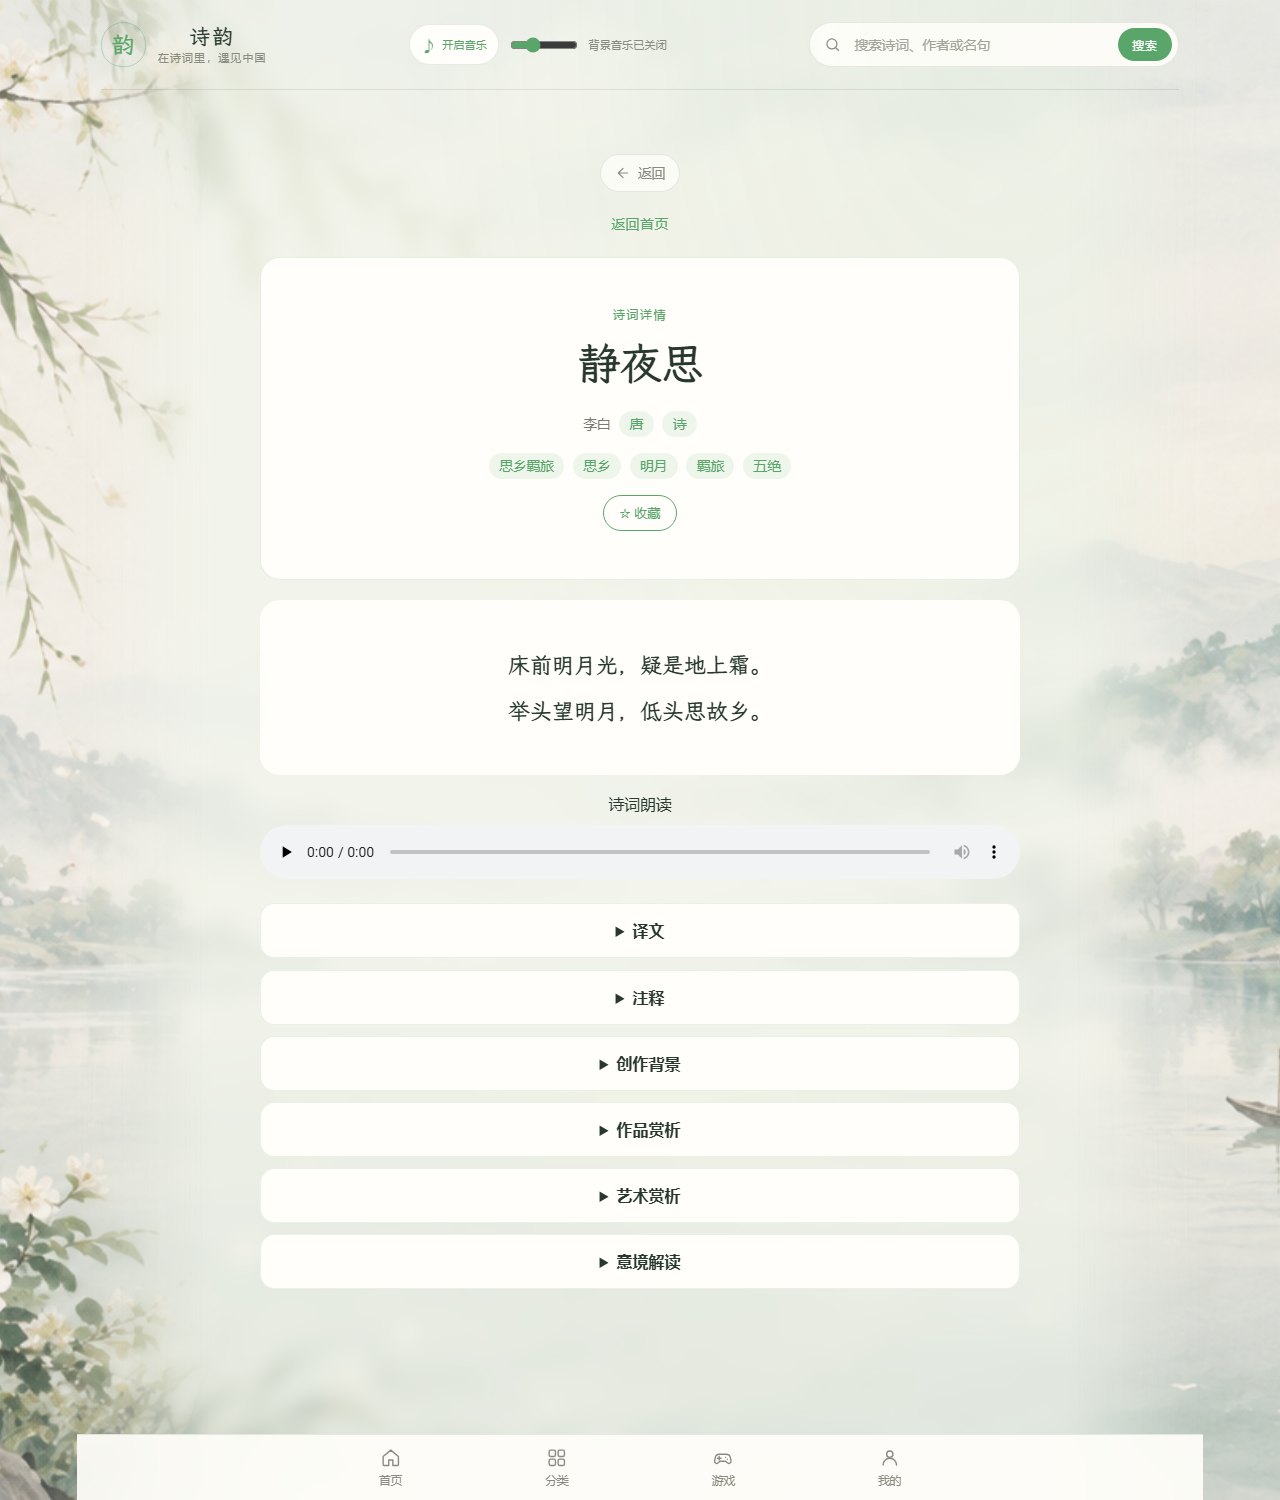
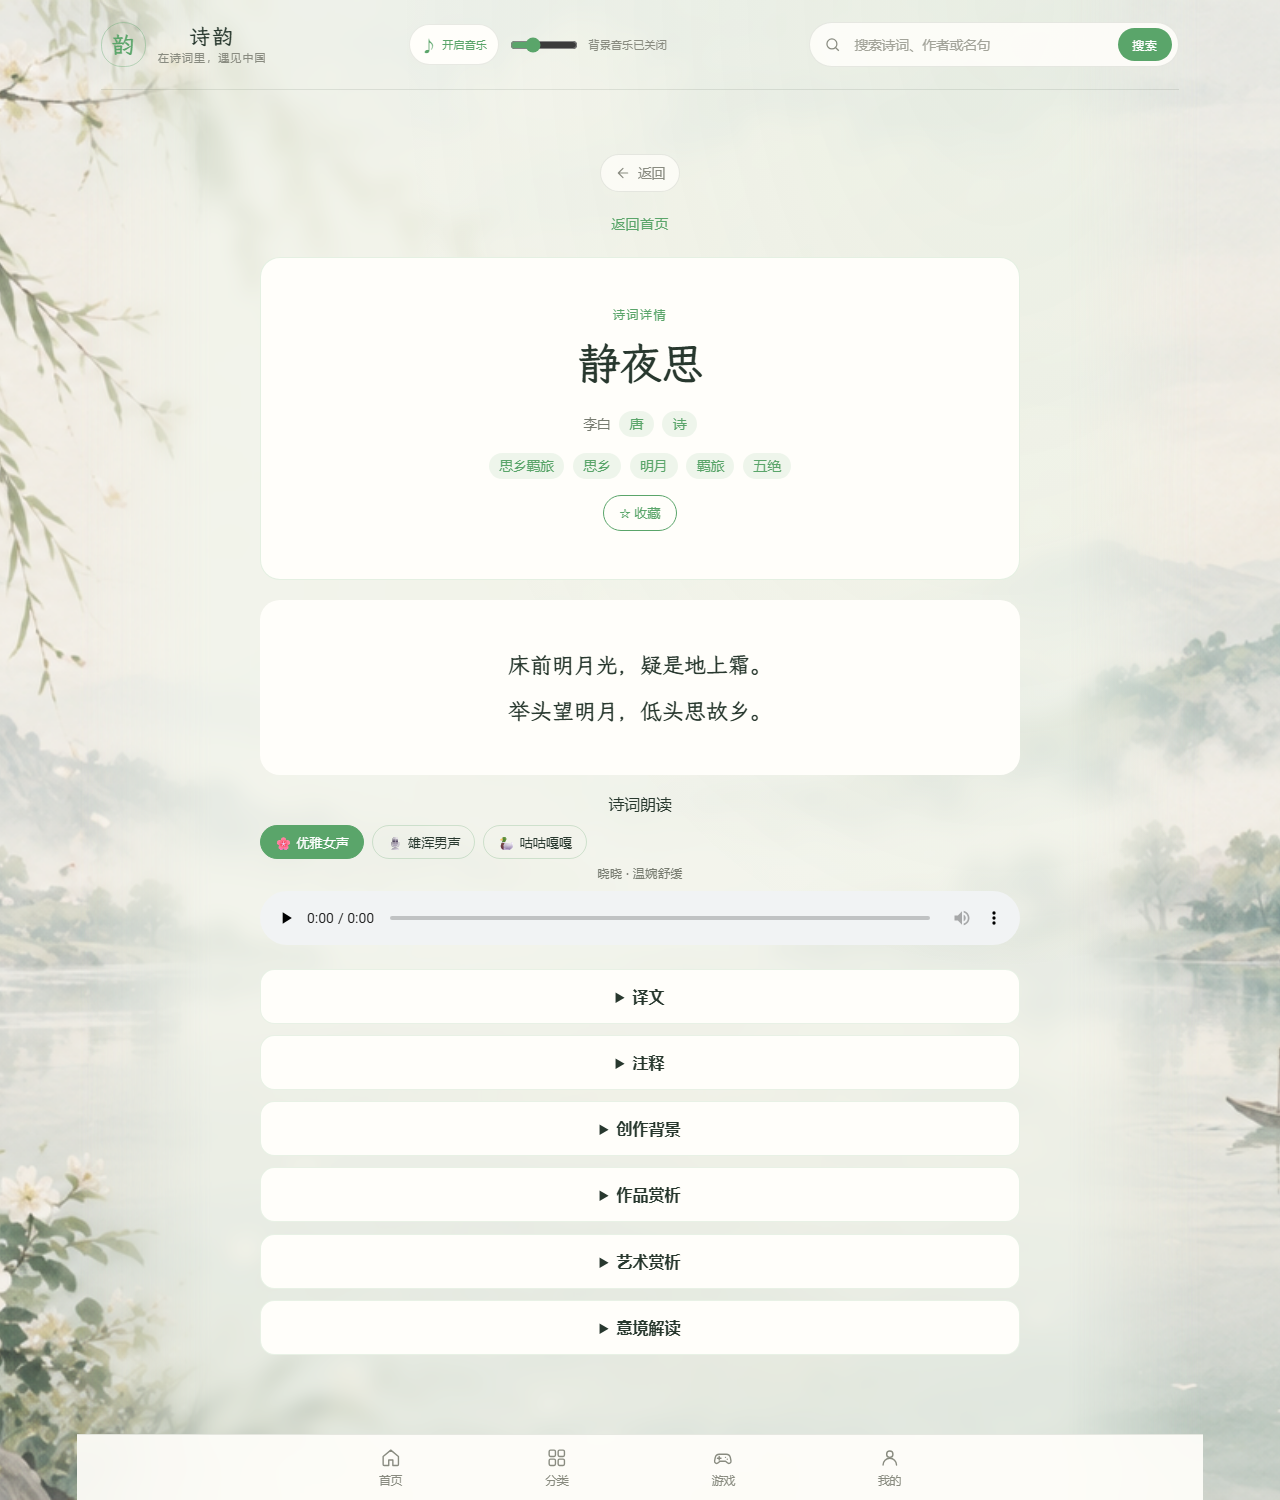
docs: README 同步三音色朗读与 2007 个音频统计，更新详情页截图

diff --git a/README.md b/README.md
@@ -8,7 +8,7 @@
   <img alt="Pinia" src="https://img.shields.io/badge/Pinia-4.x-ffd859">
   <img alt="Router" src="https://img.shields.io/badge/Vue%20Router-4.x-42b883">
   <img alt="Poems" src="https://img.shields.io/badge/诗词-500%20首-5aa56a">
-  <img alt="Audio" src="https://img.shields.io/badge/朗读音频-500%20条-6a9c78">
+  <img alt="Audio" src="https://img.shields.io/badge/朗读音频-1500%20条-6a9c78">
 </p>
 
 ![诗韵 · 首页](docs/screenshots/home.png)
@@ -22,7 +22,7 @@
 | 🧭 认识项目 | ✨ 功能与界面 | 🛠 技术实现 | 👥 一起参与 |
 | :--- | :--- | :--- | :--- |
 | [项目简介](#项目简介)<br><sub>它是什么、想解决什么</sub> | [功能全景](#功能全景)<br><sub>四类能力逐项拆解</sub> | [技术亮点](#技术亮点)<br><sub>7 个实现细节</sub> | [快速开始](#快速开始)<br><sub>两条命令跑起来</sub> |
-| [项目数据](#项目数据)<br><sub>500 首 · 507 音频 · 统计</sub> | [界面预览](#界面预览)<br><sub>13 张真实截图</sub> | [技术栈](#技术栈)<br><sub>框架与选型</sub> | [团队分工](#团队分工)<br><sub>5 人 + GitHub</sub> |
+| [项目数据](#项目数据)<br><sub>500 首 · 1500 音频 · 统计</sub> | [界面预览](#界面预览)<br><sub>13 张真实截图</sub> | [技术栈](#技术栈)<br><sub>框架与选型</sub> | [团队分工](#团队分工)<br><sub>5 人 + GitHub</sub> |
 |  |  | [目录结构](#目录结构)<br><sub>一图看懂工程</sub> | [协作规范](#迭代与协作规范)<br><sub>分支 · 提交 · 发版</sub> |
 |  |  |  | [文档索引](#文档索引)<br><sub>字段规范与脚本</sub> |
 
@@ -32,7 +32,7 @@
 
 **诗韵 · 古诗库** 是一个面向古诗词爱好者的单页 Web 应用（Vue 3 课程项目，南开大学软件学院）。
 
-它不只做「把诗摆出来」这件事：项目把 **500 首诗词、500 条整篇朗读音频、5 种互动玩法、一套学习闭环和四季视觉主题** 装进了一个手机优先的界面里，让「读诗」变成可以听、可以玩、可以复习、可以留下痕迹的日常动作。
+它不只做「把诗摆出来」这件事：项目把 **500 首诗词、1500 条三音色整篇朗读、5 种互动玩法、一套学习闭环和四季视觉主题** 装进了一个手机优先的界面里，让「读诗」变成可以听、可以玩、可以复习、可以留下痕迹的日常动作。
 
 - **数据规模**：500 首诗词，覆盖先秦至清 **14 个朝代 / 时期**，每首含译文、注释、创作背景、作品赏析、艺术赏析、意境解读
 - **内容形态**：原文 + 朗读音频 + 标签 + 地理点位（部分作品），从「看」延伸到「听」和「去」
@@ -51,7 +51,7 @@
 | **分类** | 朝代 / 体裁 / 主题三维组合筛选，实时显示命中数量（如「唐 · 130 首」），并按朝代分组浏览 |
 | **搜索** | 标题、作者、名句全文检索，边输边筛 |
 | **诗词详情** | 原文正字 + 作者朝代标签 + 收藏；折叠面板承载 **译文 / 注释 / 创作背景 / 作品赏析 / 艺术赏析 / 意境解读**（空字段不渲染） |
-| **朗读** | 每首诗配一条整篇朗读音频，内置播放器支持暂停、进度拖动、音量 |
+| **朗读** | 每首诗配 **3 条整篇朗读**：🌸优雅女声（晓晓）、🎙雄浑男声（云健）、🦆咕咕嘎嘎（卡通萌音）。页面内一键切换、记住上次选择，内置播放器支持暂停/进度/音量 |
 | **百科卡片** | 详情页可展开作者/词条百科卡片，补充背景知识 |
 | **我的足迹** | 进入详情页即自动记录，按时间倒序回看读过哪些诗 |
 
@@ -199,7 +199,7 @@ const mod = await import(/* @vite-ignore */ pkg)
 
 - **路由懒加载**：17 个路由全部 `() => import(...)`，首屏只加载必要 chunk
 - **字体本地托管**：隶书 woff2、行楷 ttf 全部放 `public/fonts/`，不依赖外部 CDN
-- **媒体分级加载**：500 条朗读音频按需请求，不预加载
+- **媒体分级加载**：1500 条三音色朗读音频按需请求，只加载当前选中音色，不预加载
 - **空字段不渲染**：译文/注释等字段可能为空串，模板统一判空，避免出现空面板
 - **插值渲染**：文本一律走 Vue 插值（等价 `textContent`），天然免疫 XSS
 
@@ -261,7 +261,7 @@ shiyun/
 ├─ vite.config.js              # @ → src 别名
 ├─ .env.example                # 联网对战配置模板
 ├─ public/
-│  ├─ audio/                   # 500 条诗词朗读 + 四季音乐 + 游戏音效（507 个 mp3）
+│  ├─ audio/                   # 500×3 条三音色朗读 + 四季音乐 + 游戏音效（2007 个 mp3）
 │  ├─ fonts/                   # 隶书 woff2 / 行楷 ttf（本地托管）
 │  └─ images/themes/           # 春 / 夏 / 秋 / 冬 背景图
 ├─ src/
@@ -284,7 +284,8 @@ shiyun/
    ├─ poem-schema.md           # 诗词字段规范
    ├─ screenshots/             # README 界面截图
    ├─ gen_audio.py             # 朗读音频生成脚本
-   ├─ gen_audio_all.py         # 全量音频生成脚本
+   ├─ gen_audio_all.py         # 全量音频生成脚本（原始男声）
+   ├─ gen_audio_voices.py      # 三音色批量生成脚本（女声/男声/咕咕嘎嘎，可断点续跑）
    └─ sprint*.md / *.json      # 各迭代规划、分工与任务清单
 ```
 
@@ -295,7 +296,7 @@ shiyun/
 | 指标 | 数量 |
 |---|---|
 | 诗词 | **500 首**（先秦 → 清，14 个朝代/时期） |
-| 音频 | **507 个 mp3**（500 条整篇朗读 + 四季环境音乐 + 游戏音效） |
+| 音频 | **2007 个 mp3**（500 首 × 3 种音色朗读 + 7 个音乐/音效） |
 | 页面（views） | 17 个 |
 | 路由 | 17 条（全部懒加载） |
 | Pinia Store | 8 个 |
@@ -333,7 +334,7 @@ shiyun/
 |---|---|
 | **v0.1** | 骨架、分支规范、目录与公共约定 |
 | **v0.2** | 首页 / 分类 / 详情 / 搜索 / 游戏 / 登录 / 我的，全链路可跑（Sprint 2） |
-| **v0.3** | 500 首数据 + 朗读音频 + 背诗卡 + 联网对战 + 朗诵打分 + 诗词地图 + 背景音乐 + 主题与头像（Sprint 3） |
+| **v0.3** | 500 首数据 + 三音色朗读音频 + 背诗卡 + 联网对战 + 朗诵打分 + 诗词地图 + 背景音乐 + 主题与头像（Sprint 3） |
 
 ### 分支与提交
 
